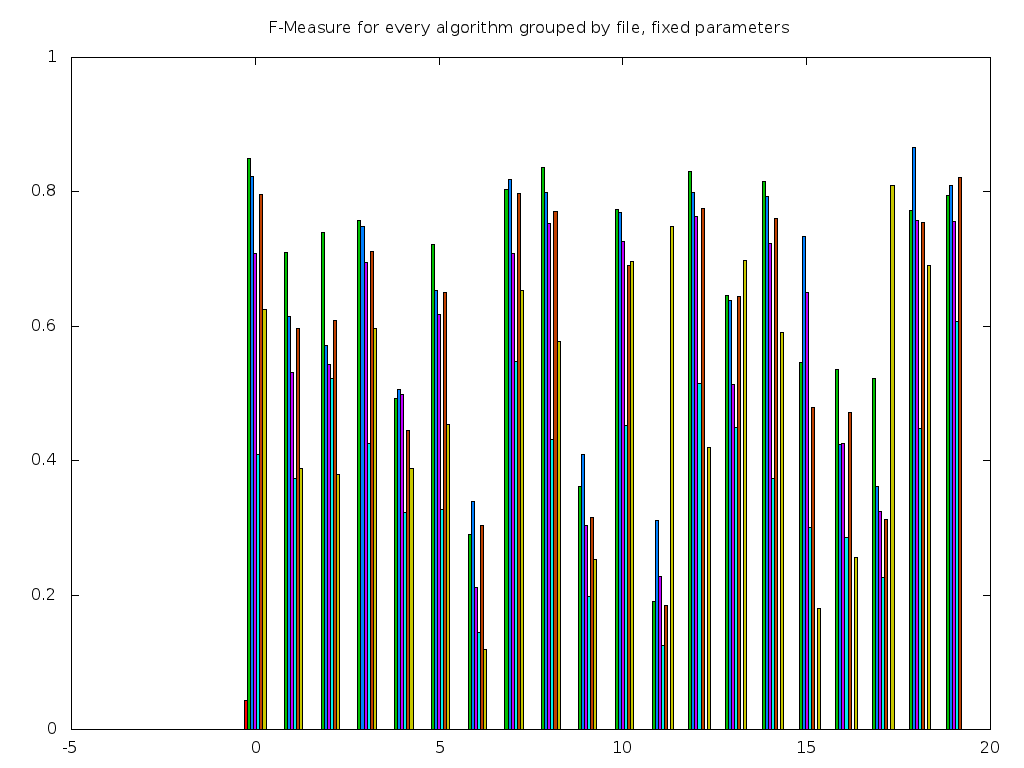
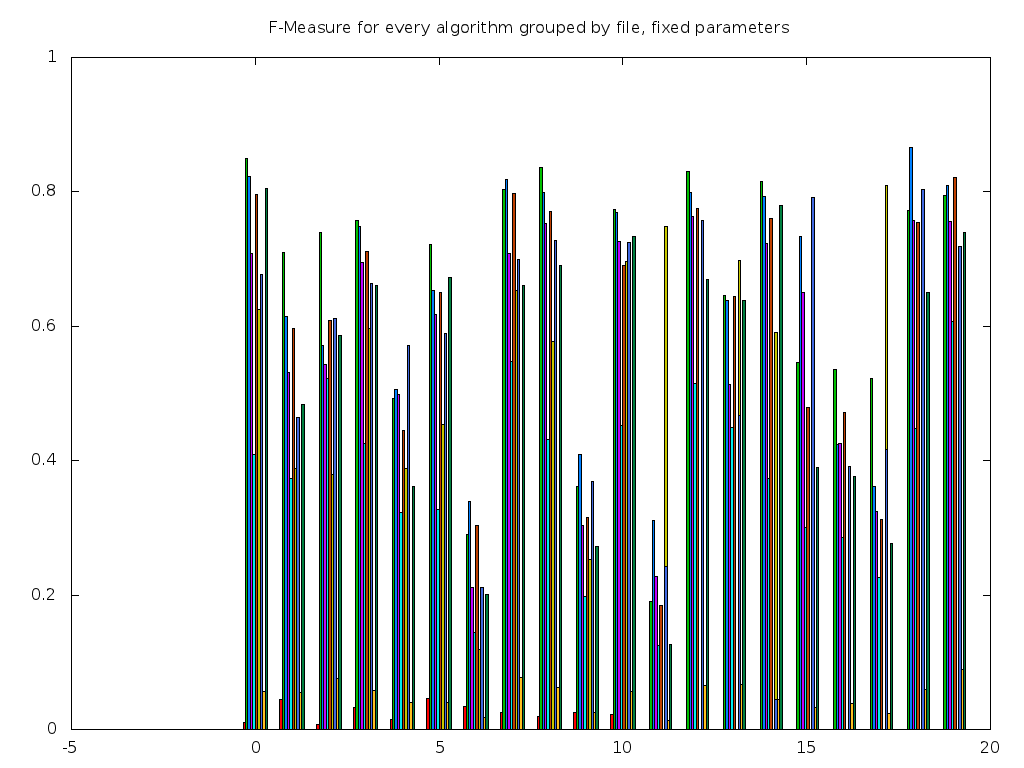
implemented HFC odf

Changed region(s): [[0.2188, 0.1875, 0.9688, 0.9688]]

diff --git a/sourcecode/at/cp/jku/teaching/amprocessing/Processor.java b/sourcecode/at/cp/jku/teaching/amprocessing/Processor.java
@@ -12,6 +12,9 @@
  * [1] http://www.dafx.ca/proceedings/papers/p_133.pdf
  * [2] http://java-gaming.org/index.php?topic=24191.0
  * [3] http://citeseerx.ist.psu.edu/viewdoc/download?doi=10.1.1.60.9607&rep=rep1&type=pdf
+ * [4] http://www.music.mcgill.ca/~hockman/other/hockman_beat_tracking_unfinished.pdf
+ * [5] http://citeseerx.ist.psu.edu/viewdoc/summary?doi=10.1.1.60.9607&rank=1
+ *
  */
 package at.cp.jku.teaching.amprocessing;
 
@@ -40,6 +43,7 @@ public class Processor {
     private final int bpmMin = 50;
     private final int bpmMax = 200;
     private int odf_algorithm;
+    private int bdf_algorithm;
     private Integer setup_m = null;
     private Integer setup_w = null;
     private Double setup_alpha = null;
@@ -55,6 +59,8 @@ public class Processor {
         m_filename = filename;
         m_onsetList = new LinkedList<Double>();
         m_onsetListFrames = new LinkedList<Integer>();
+
+        bdf_algorithm = 1;
 
         Log.log("Reading Audio-File " + filename);
         Log.log("Performing FFT...");
@@ -118,6 +124,19 @@ public class Processor {
             case 7:
                 peaks = odf_frame_distance();
                 break;
+
+            case 8:
+                peaks = odf_frame_distance_2();
+                break;
+
+            case 9:
+                peaks = odf_hfc_1();
+                break;
+
+            case 10:
+                peaks = odf_hfc_2();
+                break;
+
             default:
                 peaks = null;
         }
@@ -127,7 +146,18 @@ public class Processor {
             m_onsetList.add(p * m_audiofile.hopTime);
         }
 
-        m_tempo = bdf_acf();
+        switch (bdf_algorithm) {
+            case 1:
+                m_tempo = bdf_acf();
+                break;
+            case 2:
+                m_tempo = bdf_ioi();
+                break;
+            default:
+                m_tempo = 0;
+
+        }
+
 
     }
 
@@ -460,6 +490,63 @@ public class Processor {
             }
 
             onsetDetectionFunction[n] = sum;
+        }
+
+        return pickPeaksDixon(onsetDetectionFunction, 3, 5, 0.5, 0.9);
+    }
+
+    // alg 9 [5]
+    private List<Integer> odf_hfc_1() {
+
+        final int frameCount = m_audiofile.spectralDataContainer.size();
+        final int frameSize = m_audiofile.spectralDataContainer.get(0).size;
+
+        double hfc_n = 1.0;
+        double hfc_n_1 = Double.NaN;
+
+        for (int n = 0; n < frameCount; n++) {
+
+            final SpectralData f_n_0 = m_audiofile.spectralDataContainer.get(n);
+            final double[] mag_n_0 = f_n_0.magnitudes;
+
+            hfc_n_1 = hfc_n;
+            hfc_n = 0.0;
+            double mag_acc = 0.0;
+            for (int k = frameSize/2; k < frameSize; k++) {
+                double mag = mag_n_0[k] * mag_n_0[k];
+                hfc_n += mag * k;
+                mag_acc += mag;
+            }
+
+            onsetDetectionFunction[n] = (hfc_n / hfc_n_1) * (hfc_n / mag_acc);
+        }
+
+        return pickPeaksDixon(onsetDetectionFunction, 3, 5, 0.5, 0.9);
+    }
+
+    // alg 10 [5]
+    private List<Integer> odf_hfc_2() {
+
+        final int frameCount = m_audiofile.spectralDataContainer.size();
+        final int frameSize = m_audiofile.spectralDataContainer.get(0).size;
+
+        double hfc_n = 0.0;
+        double hfc_n_1 = Double.NaN;
+
+        for (int n = 0; n < frameCount; n++) {
+
+            final SpectralData f_n_0 = m_audiofile.spectralDataContainer.get(n);
+            final double[] mag_n_0 = f_n_0.magnitudes;
+
+            hfc_n_1 = hfc_n;
+            hfc_n = 0.0;
+            for (int k = frameSize/2; k < frameSize; k++) {
+
+                hfc_n += abs(mag_n_0[k]) * k * k;
+
+            }
+
+            onsetDetectionFunction[n] = hfc_n - hfc_n_1;
         }
 
         return pickPeaksDixon(onsetDetectionFunction, 3, 5, 0.5, 0.9);

diff --git a/sourcecode/at/cp/jku/teaching/amprocessing/EvalRunner.java b/sourcecode/at/cp/jku/teaching/amprocessing/EvalRunner.java
@@ -100,7 +100,7 @@ public class EvalRunner {
             outputwriter.append(gnuplotcomment + "alg TP FP FN PRECISION RECALL FMEASURE");
             outputwriter.append('\n');
 
-            for (int alg = 1; alg < 8; alg++) {
+            for (int alg = 1; alg <= 10; alg++) {
 
                 // pass all null-values: don't override the defaults of the algorithm
                 p.setup(alg, null, null, null, null);

diff --git a/sourcecode/at/cp/jku/teaching/amprocessing/ParamStudyRunner.java b/sourcecode/at/cp/jku/teaching/amprocessing/ParamStudyRunner.java
@@ -101,7 +101,7 @@ public class ParamStudyRunner {
 
         Processor p = new Processor(wavFileName);
 
-        for (int alg = 1; alg < 8; alg++) {
+        for (int alg = 8; alg <= 10; alg++) {
 
 
 
